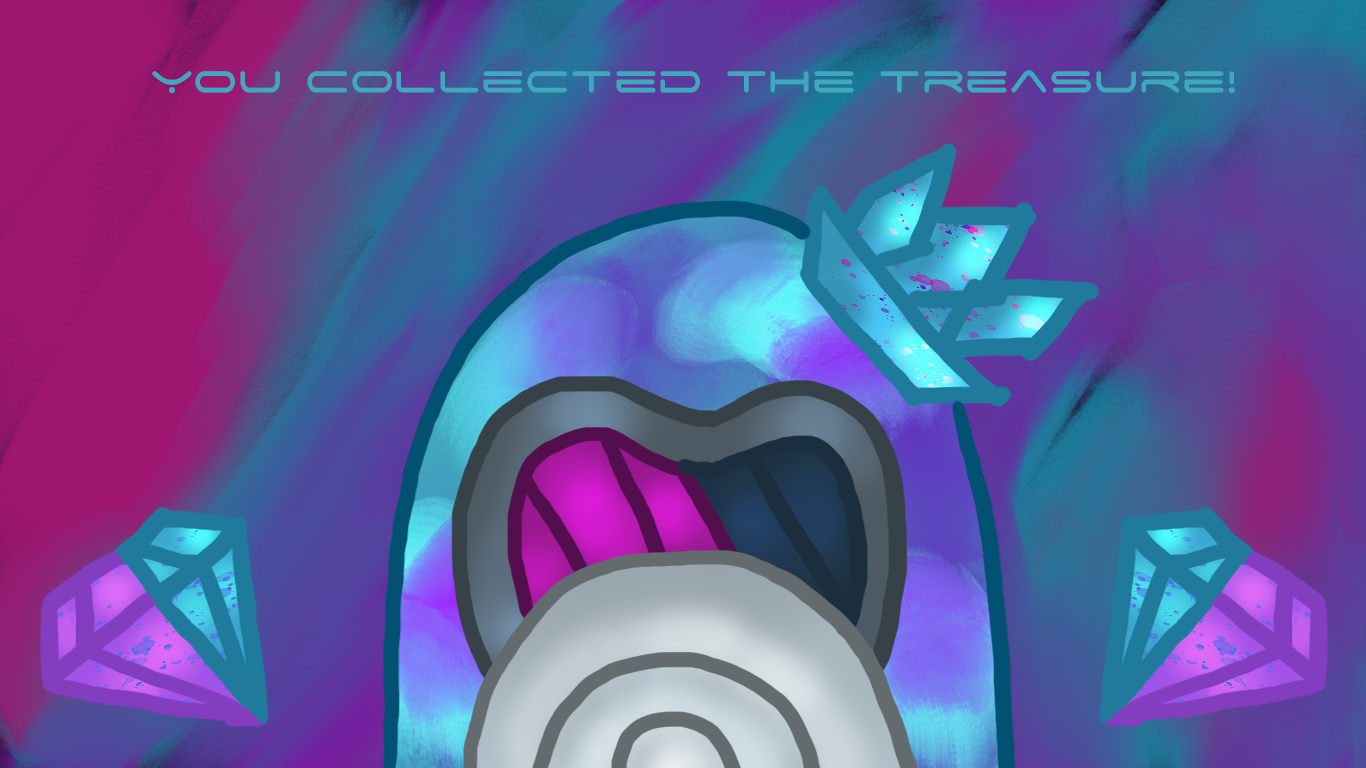
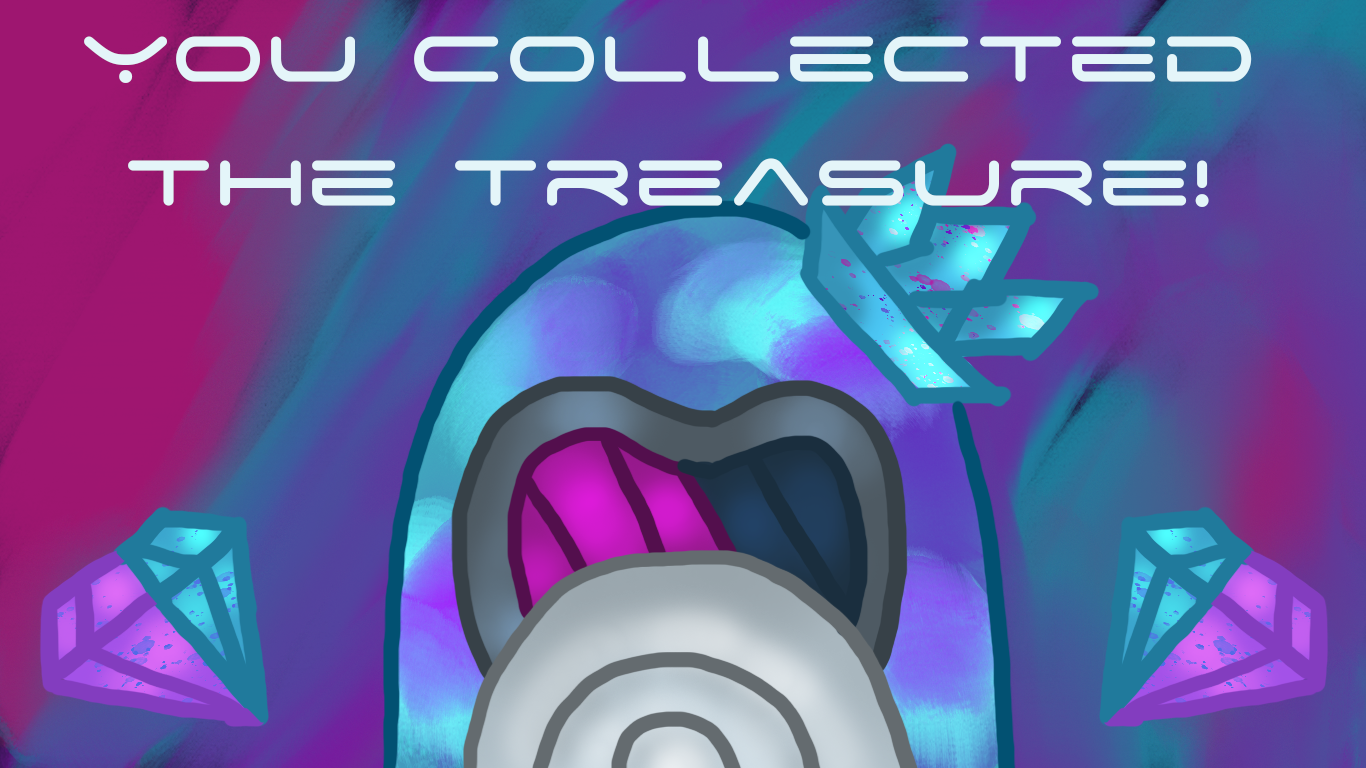
Add leaderboard and game over screen

Changed region(s): [[0.0615, 0.0312, 0.9224, 0.125], [0.3382, 0.1875, 0.8917, 0.2812], [0.0922, 0.1875, 0.3075, 0.2812]]

diff --git a/Game/GameManager.cs b/Game/GameManager.cs
@@ -1,56 +1,92 @@
 using GXPEngine;
 
 namespace Game {
-    public class GameManager : GameObject
-    {
+    public class GameManager : GameObject {
+        public static GameManager Instance;
         public bool ShouldShowTutorial;
         public bool ShouldStartPlaying;
         public bool ShouldStopPlaying;
-        private bool showedTutorial;
-        private bool startedPlaying;
-        private bool stoppedPlaying;
+        public bool ShouldShowLeaderboard;
+        public bool ShouldShowMenu;
+        public bool ShowedTutorial;
+        public bool StartedPlaying;
+        public bool StoppedPlaying;
+        public bool ShowedLeaderboard;
+        public bool ShowedMenu;
         private GameLoop grid;
         private StartMenu startMenu;
         private TutorialMenu tutorialMenu;
         private GameOver gameOver;
+        private GameOverWin gameOverWin;
+        private Leaderboard leaderboard;
+        private int score;
 
-        public GameManager()
-        {
-            startMenu = new StartMenu(this);
+        public GameManager() {
+            startMenu = new StartMenu();
             AddChild(startMenu);
         }
 
-        private void Update()
-        {
-            if (ShouldShowTutorial && !showedTutorial)
-            {
-                showedTutorial = true;
+
+        private void Update() {
+            if (ShouldShowTutorial && !ShowedTutorial) {
+                ShowedTutorial = true;
                 ShouldShowTutorial = false;
                 startMenu.Destroy();
-                tutorialMenu = new TutorialMenu(this);
+                startMenu = null;
+                tutorialMenu = new TutorialMenu();
                 LateAddChild(tutorialMenu);
+                ShowedMenu = false;
             }
 
-            if (ShouldStartPlaying && !startedPlaying)
-            {
-                startedPlaying = true;
+            if (ShouldStartPlaying && !StartedPlaying) {
+                StartedPlaying = true;
                 ShouldStartPlaying = false;
                 tutorialMenu.Destroy();
-                grid = new GameLoop(this);
+                tutorialMenu = null;
+                grid = new GameLoop();
                 LateAddChild(grid);
+                ShowedMenu = false;
             }
 
-            if (ShouldStopPlaying && !stoppedPlaying)
-            {
-                stoppedPlaying = true;
+            if (ShouldStopPlaying && !StoppedPlaying) {
+                StoppedPlaying = true;
                 ShouldStopPlaying = false;
-                gameOver = new GameOver(grid.Score, grid.fuelStation.FuelAmount, grid.fuelStation2.FuelAmount);
+                score = grid.Score;
+                if (grid.GotTreasure) {
+                    gameOverWin = new GameOverWin(score);
+                    AddChild(gameOverWin);
+                } else {
+                    gameOver = new GameOver(score);
+                    AddChild(gameOver);
+                }
                 grid.Destroy();
+                grid = null;
                 SoundManager.Instance.Stop("fuelLow");
                 SoundManager.Instance.Stop("ambient");
                 SoundManager.Instance.Stop("drilling");
-                AddChild(gameOver);
+                ShowedMenu = false;
+            }
 
+            if (ShouldShowMenu && !ShowedMenu) {
+                ShouldShowMenu = false;
+                ShowedMenu = true;
+                ShowedTutorial = false;
+                StartedPlaying = false;
+                StoppedPlaying = false;
+                ShowedLeaderboard = false;
+                score = -1;
+                gameOver?.Destroy();
+                leaderboard?.Destroy();
+                startMenu = new StartMenu();
+                AddChild(startMenu);
+            }
+
+            if (ShouldShowLeaderboard && !ShowedLeaderboard) {
+                ShouldShowLeaderboard = false;
+                ShowedLeaderboard = true;
+                gameOverWin.Destroy();
+                leaderboard = new Leaderboard(score);
+                AddChild(leaderboard);
             }
         }
     }

diff --git a/Game/GameLoop.cs b/Game/GameLoop.cs
@@ -19,10 +19,11 @@ namespace Game {
         private float cameraVelocity;
         private int FuelStationRoomDepth = 246;
 
+        public bool GotTreasure = true;
+        private bool hasTreasure;
         private bool startedDrilling;
         private bool canStartDrilling;
         private bool isDrillOn;
-        private bool hasTreasure;
 
         private ObjectType[,] tiles;
         private ObjectType[,] tilesBackground;
@@ -31,17 +32,15 @@ namespace Game {
         private Camera camera;
         private Player player;
         private FuelBar fuelBar;
-        public FuelStation fuelStation;
-        public FuelStation fuelStation2;
+        private FuelStation fuelStation;
+        private FuelStation fuelStation2;
         private VisibilitySystem visibility;
         private DrillProgressIndicator drillProgressIndicator;
         private Vector2Int lastDrillDirection = Vector2Int.zero;
-        private GameManager gameManager;
 
         public ObjectType[,] Tiles => tiles;
 
-        public GameLoop(GameManager gameManager) {
-            this.gameManager = gameManager;
+        public GameLoop() {
             TilesHorizontal = (int) (Globals.WIDTH / Globals.TILE_SIZE);
             tiles = new ObjectType[TilesHorizontal, Settings.Instance.World.TopOffset + Settings.Instance.World.Depth];
             tilesBackground = new ObjectType[TilesHorizontal, Settings.Instance.World.TopOffset + Settings.Instance.World.Depth];
@@ -51,8 +50,8 @@ namespace Game {
         }
 
         private void Update() {
+            if (GameManager.Instance.StoppedPlaying) return;
             DrawHud();
-
             var (playerX, playerY) = new Vector2(player.x, player.y).ToGrid().ToInt().Unpack();
             var movementDirection = new Vector2Int((int) Input.GetAxisDown("Horizontal"), (int) Input.GetAxisDown("Vertical"));
             var drillDirection = new Vector2Int((int) Input.GetAxis("Horizontal"), (int) Input.GetAxis("Vertical"));
@@ -235,8 +234,8 @@ namespace Game {
                 desiredPosition = movementDirection.Add(playerX, playerY);
                 rangeCheck = desiredPosition.x >= 0 && desiredPosition.x < TilesHorizontal && desiredPosition.y >= 0 && desiredPosition.y < TilesVertical;
                 if (playerY <= Settings.Instance.World.TopOffset && hasTreasure) {
-                    Debug.LogWarning("YOU WON GOOD JOB BYE");
-                    gameManager.ShouldStopPlaying = true;
+                    GotTreasure = true;
+                    FinishGame();
                     return;
                 }
             }
@@ -276,7 +275,7 @@ namespace Game {
             if (startedDrilling) fuelBar.ChangeFuel(Settings.Instance.DrillingFuelConsumption * Time.deltaTime);
 
             if (fuelBar.FuelAmount <= 0) {
-                gameManager.ShouldStopPlaying = true;
+                FinishGame();
             }
         }
 
@@ -295,6 +294,12 @@ namespace Game {
         private void UpdateCamera() {
             camera.y = Mathf.SmoothDamp(camera.y, player.y, ref cameraVelocity, 0.3f);
             camera.y = Mathf.Clamp(camera.y, Globals.HEIGHT / 2f - Globals.TILE_SIZE * 2, (Settings.Instance.World.Depth + Settings.Instance.World.TopOffset) * Globals.TILE_SIZE - Globals.HEIGHT / 2f);
+        }
+
+        private void FinishGame() {
+            Score += (int)(fuelStation.FuelAmount / 100);
+            Score += (int)(fuelStation2.FuelAmount / 100);
+            GameManager.Instance.ShouldStopPlaying = true;
         }
 
         public void DrawTileGrid(GLContext glContext) {

diff --git a/Game/Leaderboard.cs b/Game/Leaderboard.cs
@@ -1,0 +1,57 @@
+using GXPEngine;
+using System;
+using System.Collections.Generic;
+using System.Drawing;
+using System.IO;
+using System.Linq;
+using System.Text;
+using GXPEngine.Core;
+using Newtonsoft.Json;
+
+namespace Game {
+    internal class LeaderboardScores {
+        public List<int> Scores;
+    }
+    public class Leaderboard : GameObject {
+        private Texture2D backgroundTexture;
+        private Canvas canvas;
+        private List<int> scores;
+
+        public Leaderboard(int score) {
+            var leaderboardText = File.ReadAllText("data/leaderboard.json");
+            var leaderboard = JsonConvert.DeserializeObject<LeaderboardScores>(leaderboardText);
+            leaderboard.Scores.Add(score);
+            leaderboard.Scores.Sort();
+            leaderboard.Scores.Reverse();
+            leaderboard.Scores.RemoveRange(5, leaderboard.Scores.Count-5);
+            scores = new List<int>();
+            scores.AddRange(leaderboard.Scores);
+            var newLeaderboardText = JsonConvert.SerializeObject(leaderboard);
+            Debug.Log(newLeaderboardText);
+            File.WriteAllText("data/leaderboard.json", newLeaderboardText);
+            
+            canvas = new Canvas(Globals.WIDTH, Globals.HEIGHT);
+            backgroundTexture = Texture2D.GetInstance("data/leaderboard.png");
+            AddChild(canvas);
+        }
+
+        private void Update() {
+            canvas.graphics.Clear(Color.Transparent);
+            canvas.graphics.DrawString($"LEADERBOARD", FontLoader.Instance[42f], Brushes.White, Globals.WIDTH/2f,320f, FontLoader.CenterAlignment);
+            foreach (var (score, index) in scores.Select((score, index) => (score, index))) {
+                canvas.graphics.DrawString($"{index+1}. {score}", FontLoader.Instance[28f], Brushes.White, Globals.WIDTH/2f, 320+62+index*(413-362), FontLoader.CenterAlignment);
+            }
+            canvas.graphics.DrawString($"press any button", FontLoader.Instance[48f], Brushes.White, Globals.WIDTH/2f,Globals.HEIGHT - 48f, FontLoader.CenterAlignment);
+            if (Input.GetAxisDown("Horizontal") != 0 || Input.GetAxisDown("Vertical") != 0 || Input.GetButtonDown("Drill") || Input.GetButtonDown("Refuel")) {
+                GameManager.Instance.ShouldShowMenu = true;
+            }
+        }
+
+        protected override void RenderSelf(GLContext glContext) {
+            glContext.SetColor(0xff,0xff,0xff,0xff);
+            backgroundTexture.Bind();
+            var verts = backgroundTexture.TextureVertices();
+            glContext.DrawQuad(verts, Globals.QUAD_UV);
+        }
+    }
+}

diff --git a/Game/GameOverWin.cs b/Game/GameOverWin.cs
@@ -7,26 +7,25 @@ using System.Text;
 using GXPEngine.Core;
 
 namespace Game {
-    public class GameOver : GameObject {
+    public class GameOverWin : GameObject {
         private int score;
         private Texture2D backgroundTexture;
         private Canvas canvas;
 
-        public GameOver(int score) {
+        public GameOverWin(int score) {
             canvas = new Canvas(Globals.WIDTH, Globals.HEIGHT);
             this.score = score;
-            backgroundTexture = Texture2D.GetInstance("data/loseGameOver.png");
+            backgroundTexture = Texture2D.GetInstance("data/winGameOver.png");
             AddChild(canvas);
         }
 
         private void Update() {
             canvas.graphics.Clear(Color.Transparent);
-            canvas.graphics.DrawString("Game Over", FontLoader.Instance[128f], Brushes.White, Globals.WIDTH / 2f, 64f, FontLoader.CenterAlignment);
-            canvas.graphics.DrawString($"Score", FontLoader.Instance[64f], Brushes.White, Globals.WIDTH/2f,128f+32f, FontLoader.CenterAlignment);
-            canvas.graphics.DrawString($"{score}", FontLoader.Instance[64f], Brushes.White, Globals.WIDTH/2f,128f+64f+32f, FontLoader.CenterAlignment);
+            canvas.graphics.DrawString($"Score", FontLoader.Instance[64f], Brushes.White, Globals.WIDTH/2f,320f, FontLoader.CenterAlignment);
+            canvas.graphics.DrawString($"{score}", FontLoader.Instance[64f], Brushes.White, Globals.WIDTH/2f,320f+48f, FontLoader.CenterAlignment);
             canvas.graphics.DrawString($"press any button", FontLoader.Instance[48f], Brushes.White, Globals.WIDTH/2f,Globals.HEIGHT - 48f, FontLoader.CenterAlignment);
             if (Input.GetAxisDown("Horizontal") != 0 || Input.GetAxisDown("Vertical") != 0 || Input.GetButtonDown("Drill") || Input.GetButtonDown("Refuel")) {
-                GameManager.Instance.ShouldShowMenu = true;
+                GameManager.Instance.ShouldShowLeaderboard = true;
             }
         }
 

diff --git a/Game/TutorialMenu.cs b/Game/TutorialMenu.cs
@@ -5,18 +5,19 @@ namespace Game {
     public class TutorialMenu : GameObject {
         private int tutorialIndex;
         private Texture2D[] tutorialTextures = new Texture2D[6];
-        private GameManager manager;
-        public TutorialMenu(GameManager manager) {
-            this.manager = manager;
+        public TutorialMenu() {
             for (int i = 0; i < tutorialTextures.Length; i++) {
                 tutorialTextures[i] = Texture2D.GetInstance($"data/tutorial/tutorial{i+1}.png");
             }
         }
 
         private void Update() {
-            if (Input.GetAxisDown("Horizontal") != 0 || Input.GetAxisDown("Vertical") != 0 || Input.GetButtonDown("Drill") || Input.GetButtonDown("Refuel")) {
+            if (Input.GetButtonDown("Drill")) {
+                GameManager.Instance.ShouldStartPlaying = true;
+            }
+            if (Input.GetAxisDown("Horizontal") != 0 || Input.GetAxisDown("Vertical") != 0 || Input.GetButtonDown("Refuel")) {
                 tutorialIndex++;
-                if (tutorialIndex >= tutorialTextures.Length) manager.ShouldStartPlaying = true;
+                if (tutorialIndex >= tutorialTextures.Length) GameManager.Instance.ShouldStartPlaying = true;
             }
         }
 

diff --git a/Game/StartMenu.cs b/Game/StartMenu.cs
@@ -10,11 +10,11 @@ namespace Game {
         private Texture2D startMenuBackgroundTexture;
         private int selectedButton = 0;
 
-        public StartMenu(GameManager gameManager) {
+        public StartMenu() {
             buttons = new List<Button> {
                 new Button(new Vector2(Globals.WIDTH / 2f, 100), "data/start_menu/playButton.png", "data/start_menu/playButtonSelected.png", () => {
                     Debug.Log("Play Button Clicked");
-                    gameManager.ShouldShowTutorial = true;
+                    GameManager.Instance.ShouldShowTutorial = true;
                 }),
                 new Button(new Vector2(Globals.WIDTH / 2f, 300), "data/start_menu/quitButton.png", "data/start_menu/quitButtonSelected.png", () => {
                     Debug.Log("Quit Button Clicked");
@@ -35,6 +35,7 @@ namespace Game {
         }
 
         protected override void RenderSelf(GLContext glContext) {
+            glContext.SetColor(0xff,0xff,0xff,0xff);
             startMenuBackgroundTexture.Bind();
             glContext.DrawQuad(startMenuBackgroundTexture.TextureVertices(), Globals.QUAD_UV);
             buttons.ForEach(button => button.Draw(glContext));

diff --git a/Game/Program.cs b/Game/Program.cs
@@ -16,8 +16,9 @@ namespace Game {
             Input.AddAxis("Horizontal", new List<int> {Key.A, Key.LEFT}, new List<int> {Key.D, Key.RIGHT});
             Input.AddAxis("Vertical", new List<int> {Key.W, Key.UP}, new List<int> {Key.S, Key.DOWN});
             
-            var world = new GameManager();
-            AddChild(world);
+            var gameManager = new GameManager();
+            GameManager.Instance = gameManager;
+            AddChild(gameManager);
             /*
             var lines = File.ReadAllLines("data/highscore.txt");
             for (int i = 0; i < lines.Length; i++) {

diff --git a/Game/FuelBar.cs b/Game/FuelBar.cs
@@ -37,6 +37,7 @@ namespace Game {
         }
        
         private void Update() {
+            if (GameManager.Instance.StoppedPlaying) return;
             shouldShowIndicator1 = fuelAmount <= Settings.Instance.FuelBarIndicatorThresholdMinor * fuelCapacity;
             shouldShowIndicator2 = fuelAmount <= Settings.Instance.FuelBarIndicatorThresholdMajor * fuelCapacity;
             if (shouldShowIndicator1) {
